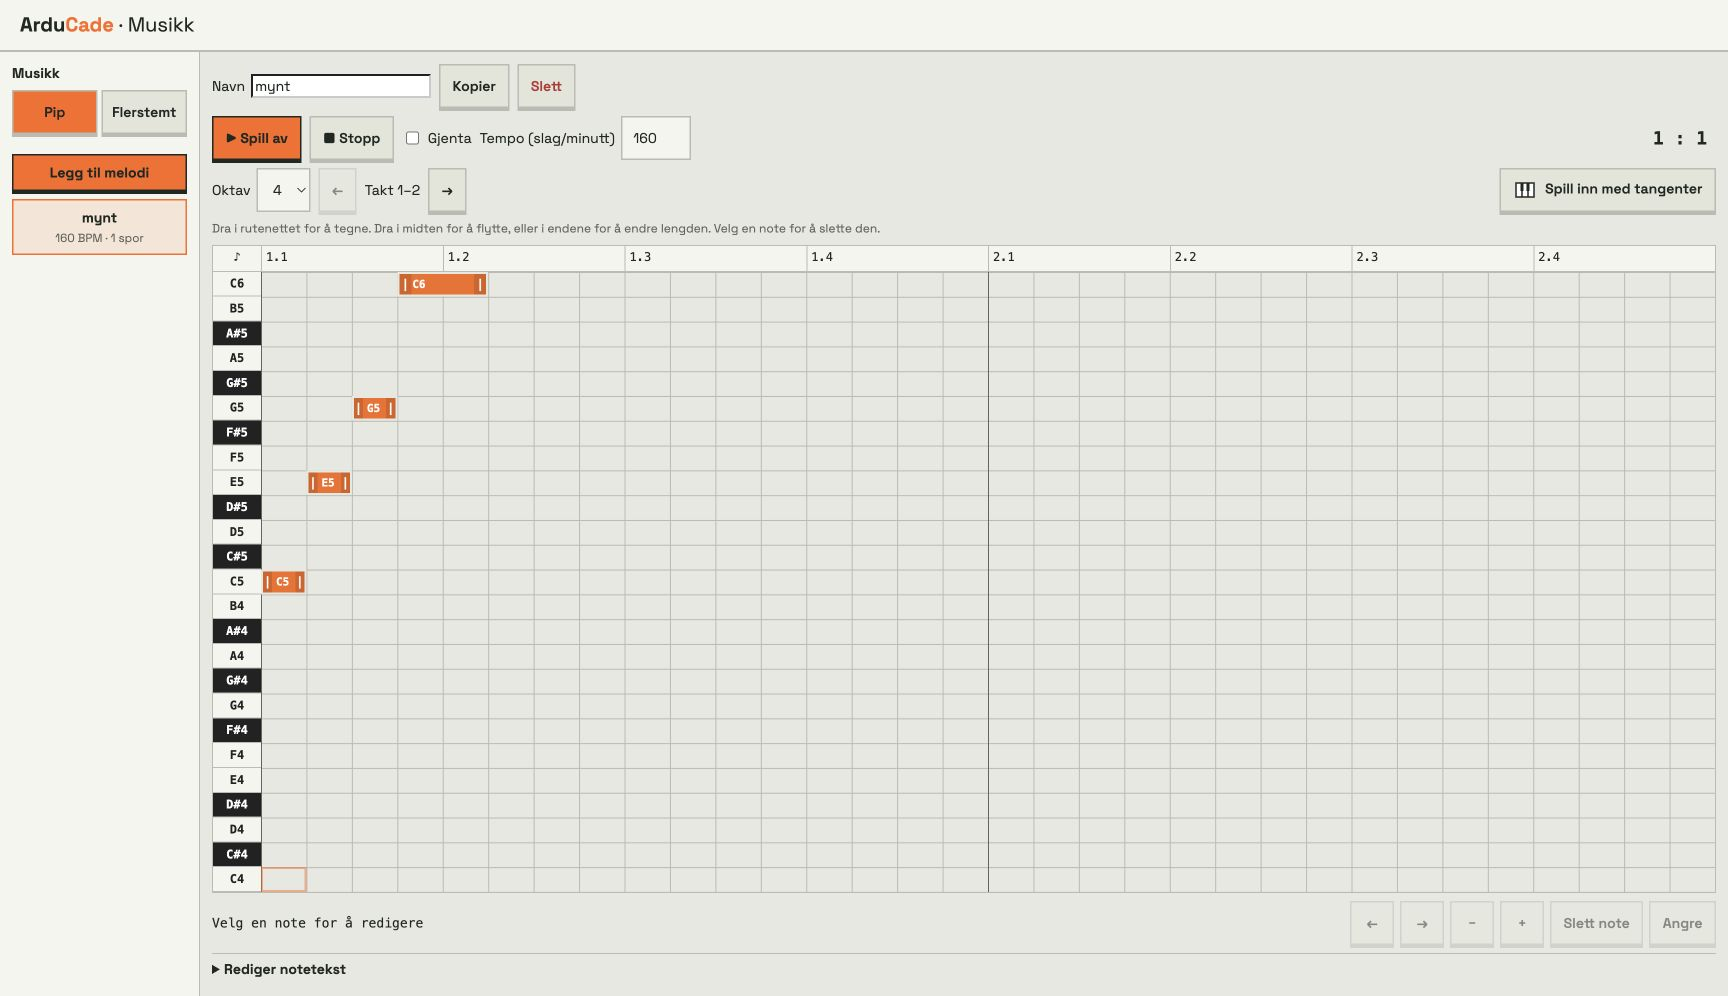
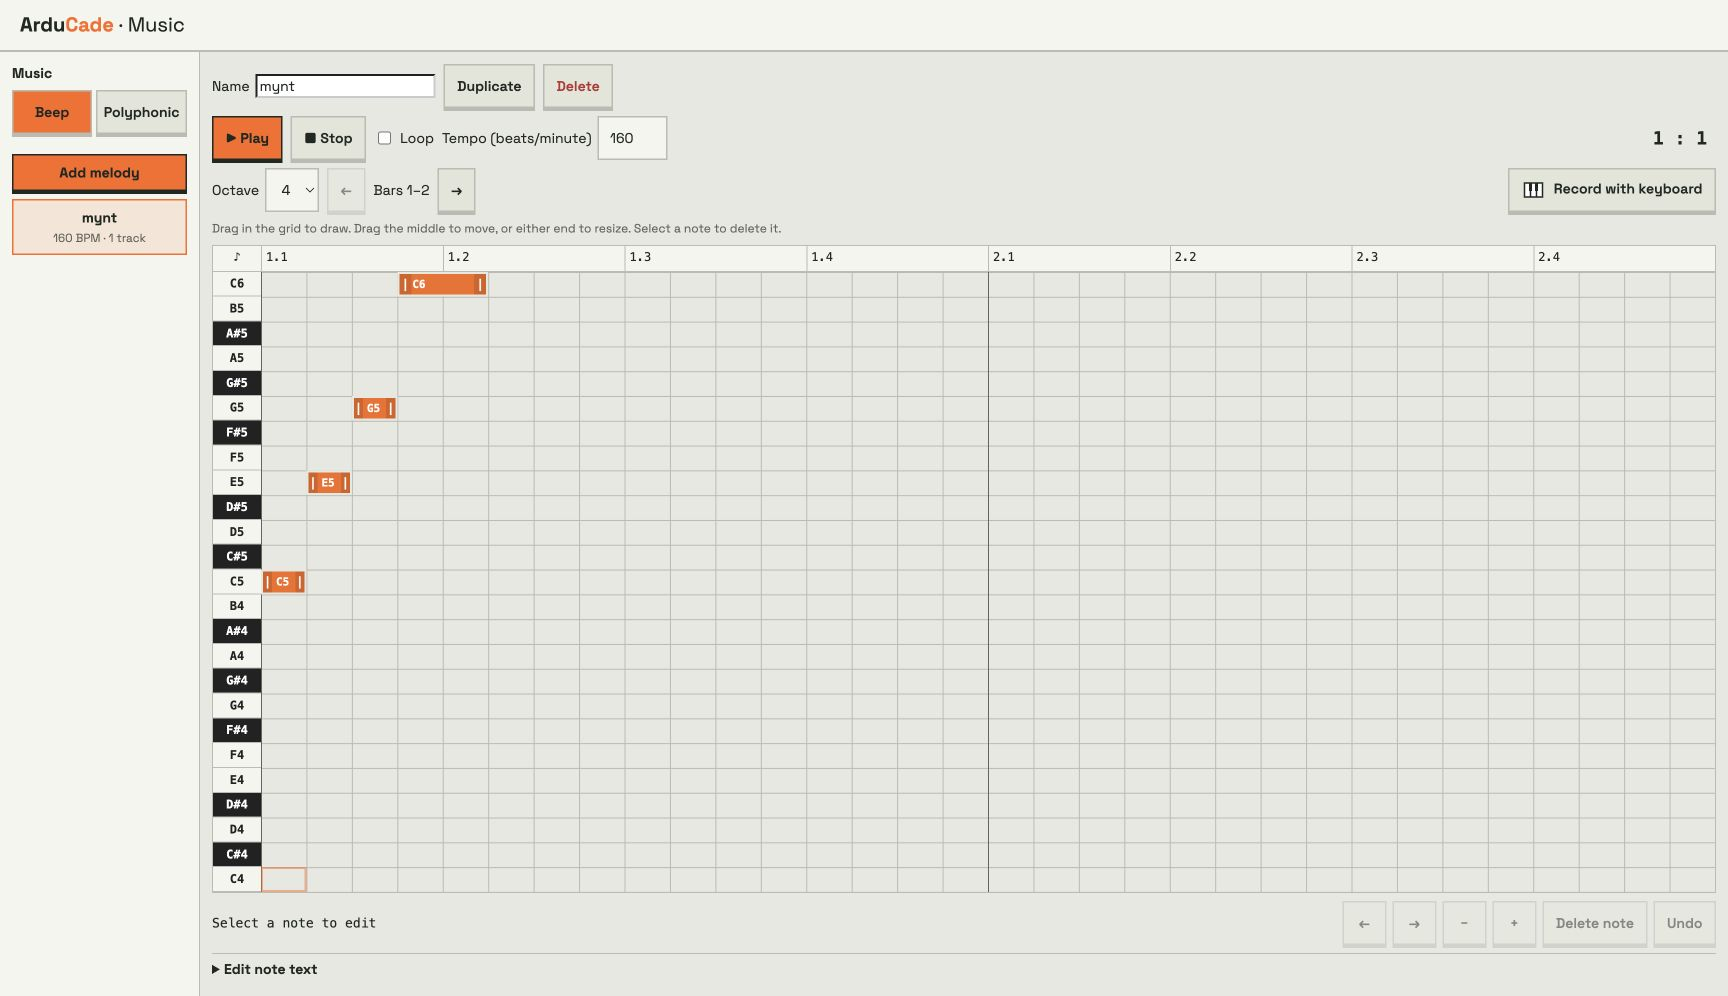
feat: Update documentation and localization for music features to English

diff --git a/src/ui/guide-panel.ts b/src/ui/guide-panel.ts
@@ -33,15 +33,14 @@ export function blockPicture(el: HTMLElement, blocks: Json[], theme: ThemeId, ma
     theme: blocklyTheme(theme),
     renderer: 'geras',
     rendererOverrides: BLOCK_RENDERER,
-    move: { scrollbars: true, drag: true, wheel: true },
-    zoom: { controls: false, wheel: false, startScale: 0.8, minScale: overview ? 0.05 : 0.3 },
+    move: { scrollbars: false, drag: false, wheel: false },
+    zoom: { controls: false, wheel: false, startScale: 0.8, minScale: 0.01 },
     sounds: false,
     media: 'blockly-media/',
   });
   if (overview) Blockly.Events.disable();
   try {
     Blockly.serialization.workspaces.load({ blocks: { languageVersion: 0, blocks } }, ws);
-    ws.cleanUp();
   } finally {
     if (overview) Blockly.Events.enable();
   }
@@ -62,16 +61,30 @@ export function blockPicture(el: HTMLElement, blocks: Json[], theme: ThemeId, ma
           block.moveBy((i % 3) * columnWidth - pos.x, heights.slice(0, Math.floor(i / 3)).reduce((a, b) => a + b, 0) - pos.y);
         });
       } finally { Blockly.Events.enable(); }
+    } else {
+      // Blockly's cleanUp skips immovable, read-only blocks. Lay out every stack
+      // explicitly so examples containing several events do not overlap.
+      let top = 0;
+      Blockly.Events.disable();
+      try {
+        for (const block of ws.getTopBlocks(true)) {
+          const box = block.getBoundingRectangle();
+          block.moveBy(-box.left, top - box.top);
+          top += box.getHeight() + 24;
+        }
+      } finally { Blockly.Events.enable(); }
     }
-    if (overview) await Blockly.renderManagement.finishQueuedRenders();
+    await Blockly.renderManagement.finishQueuedRenders();
     if (!el.isConnected) return;
     const bounds = overview ? ws.getCanvas().getBBox() : undefined;
     const box = bounds ? { left: bounds.x, top: bounds.y, right: bounds.x + bounds.width, bottom: bounds.y + bounds.height } : ws.getBlocksBoundingBox();
-    // Shrink wide blocks to fit the width, but never above the normal size.
-    ws.setScale(Math.max(overview ? 0.05 : 0.4, Math.min(0.8, (el.clientWidth - 24) / Math.max(1, box.right - box.left), ...(overview ? [(maxHeight - 28) / Math.max(1, box.bottom - box.top)] : []))));
+    // These are static illustrations: fit the entire example within both limits.
+    ws.setScale(Math.max(0.01, Math.min(0.8,
+      (el.clientWidth - 24) / Math.max(1, box.right - box.left),
+      (maxHeight - 28) / Math.max(1, box.bottom - box.top))));
     el.style.height = `${Math.min(maxHeight, Math.max(60, (box.bottom - box.top) * ws.scale + 28))}px`;
     Blockly.svgResize(ws);
-    ws.scroll(12 - box.left * ws.scale, 12 - box.top * ws.scale);
+    ws.translate(12 - box.left * ws.scale, 12 - box.top * ws.scale);
   };
   if (overview) void Blockly.renderManagement.finishQueuedRenders().then(fit);
   else void fit();

diff --git a/tests/fixtures/music-guide.html b/tests/fixtures/music-guide.html
@@ -1,5 +1,5 @@
-<!doctype html><html lang="nb"><meta charset="utf-8"><meta name="viewport" content="width=device-width,initial-scale=1"><base href="/"><title>ArduCade · Musikkveiledning</title><link rel="stylesheet" href="/src/styles.css">
-<body><header style="height:52px;padding:12px 20px;border-bottom:2px solid var(--border);background:var(--panel);font-size:20px"><strong>Ardu<span style="color:var(--accent)">Cade</span></strong> · Musikk</header><main id="studio" class="pane assets active" style="height:calc(100vh - 52px)"></main>
+<!doctype html><html lang="en"><meta charset="utf-8"><meta name="viewport" content="width=device-width,initial-scale=1"><base href="/"><title>ArduCade · Music guide</title><link rel="stylesheet" href="/src/styles.css">
+<body><header style="height:52px;padding:12px 20px;border-bottom:2px solid var(--border);background:var(--panel);font-size:20px"><strong>Ardu<span style="color:var(--accent)">Cade</span></strong> · Music</header><main id="studio" class="pane assets active" style="height:calc(100vh - 52px)"></main>
 <script type="module">
 import { MUSIC_EXAMPLES } from '/src/ui/docs-music-examples.ts';
 import { MusicPane } from '/src/ui/music-studio.ts';
@@ -7,13 +7,13 @@ import { newProject } from '/src/project/model.ts';
 import { loadLanguage } from '/src/i18n/i18n.ts';
 import { applyPageTheme } from '/src/ui/themes.ts';
 import { openMelodyRecorder } from '/src/ui/melody-recorder.ts';
-await loadLanguage('nb');applyPageTheme('color');
-const p=newProject('Musikkeksempler');
+await loadLanguage('en');applyPageTheme('color');
+const p=newProject('Music examples');
 p.melodies.push({id:'coin-guide',name:'mynt',notes:MUSIC_EXAMPLES.melody,tempo:160});
 p.songs.push({id:'song-guide',name:'skogstur',tempo:120,voices:[...MUSIC_EXAMPLES.voices]});
 const root=document.querySelector('#studio'), pane=new MusicPane(root,{project:()=>p,changed:()=>{}});pane.render();
 const view=new URL(location.href).searchParams.get('view');
-if(view==='poly') [...root.querySelectorAll('[role="tab"]')].find(b=>b.getAttribute('aria-selected')==='false').click();
+if(view==='poly'||view==='edit') [...root.querySelectorAll('[role="tab"]')].find(b=>b.getAttribute('aria-selected')==='false').click();
 if(view==='recorder')openMelodyRecorder(p.melodies[0].notes,p.melodies[0].tempo,()=>{});
 if(view==='docs'){
  await import('blockly/blocks');

diff --git a/docs/music.nb.md b/docs/music.nb.md
@@ -1,12 +1,12 @@
 # Musikk i ArduCade: fra første note til fire spor
 
-Denne veiledningen finnes også under **Hjelp → Lyd og musikk**. Den viser arbeidsflyter for både nybegynnere og viderekomne. Skjermbildene bruker norsk språk og fargetemaet. Åpne [eksempelprosjektet](../public/examples/music-guide.abproject) med **Åpne fil** i appen. **A** spiller mynt, **B** spiller skjold, pauser bakgrunnssangen og lar den fortsette automatisk.
+Denne veiledningen finnes også under **Hjelp → Lyd og musikk**. Den viser arbeidsflyter for både nybegynnere og viderekomne. Skjermbildene bruker engelsk språk og fargetemaet. Åpne [eksempelprosjektet](../public/examples/music-guide.abproject) med **Åpne fil** i appen. **A** spiller mynt, **B** spiller skjold, pauser bakgrunnssangen og lar den fortsette automatisk.
 
 ## Velg hvordan du vil lage musikk
 
 Åpne Musikk-fanen. Pip er en melodi med én stemme: én note om gangen, som en klassisk spillkonsoll. Flerstemt er en sang med fire spor som kan spille samtidig: melodi, harmoni, bass og trommer. Melodier og sanger lagres hver for seg i prosjektet.
 
-Begynn med Pip og en kort myntlyd. Velg Flerstemt når du vil lage bakgrunnsmusikk eller en lyd med flere lag. Pip-blokker har én note og rosa farge; flerstemte blokker har to noter og en mer lilla farge i fargetemaet. Alle finnes i samme Lyd-kategori. Skjermbildene viser norsk språk og fargetemaet.
+Begynn med Pip og en kort myntlyd. Velg Flerstemt når du vil lage bakgrunnsmusikk eller en lyd med flere lag. Pip-blokker har én note og rosa farge; flerstemte blokker har to noter og en mer lilla farge i fargetemaet. Alle finnes i samme Lyd-kategori. Skjermbildene viser engelsk språk og fargetemaet.
 
 ## Lag din første bip-melodi
 
